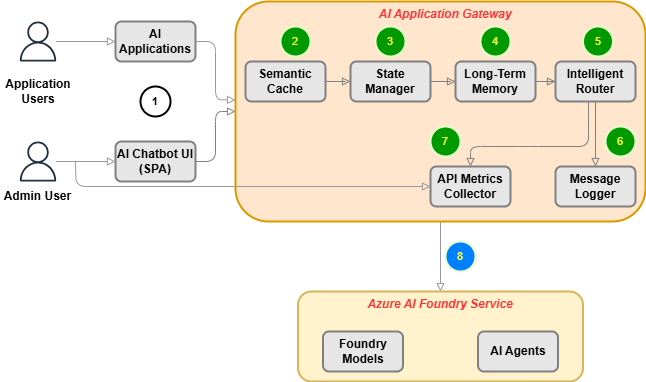
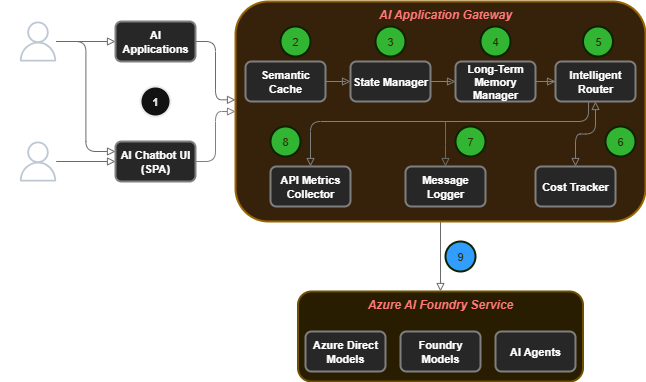
v2.5.0 Release

diff --git a/src/utilities/endpoint-routers.js b/src/utilities/endpoint-routers.js
@@ -283,7 +283,7 @@ class WeightedRandomRouter { // Random Weighted Router.  Uses static weights to 
 
   getEndpointId(request) {
     const epIdx = this._routingTable[Math.floor(Math.random() * this._routingTable.length)];
-    logger.log({ level: "debug", message: "[%s] %s.getEndpointId():\n  Request ID: %s\n  App ID: %s\n  Endpoint ID: %d", splat: [scriptName, this.constructor.name, request.id, this._appName, epIdx] });
+    logger.log({ level: "debug", message: "[%s] %s.getEndpointId():\n  Request ID: %s\n  App ID: %s\n  Endpoint Index: %d", splat: [scriptName, this.constructor.name, request.id, this._appName, epIdx] });
 
     return (epIdx);
   }
@@ -346,7 +346,7 @@ class WeightedDynamicRouter { // Latency Weighted Router
 
   getEndpointId(request) {
     const epIdx = this._routingTable[Math.floor(Math.random() * this._routingTable.length)];
-    logger.log({ level: "debug", message: "[%s] %s.getEndpointId():\n  Request ID: %s\n  App ID: %s\n  Endpoint ID: %d", splat: [scriptName, this.constructor.name, request.id, this._appName, epIdx] });
+    logger.log({ level: "debug", message: "[%s] %s.getEndpointId():\n  Request ID: %s\n  App ID: %s\n  Endpoint Index: %d", splat: [scriptName, this.constructor.name, request.id, this._appName, epIdx] });
 
     return (epIdx);
   }
@@ -414,7 +414,7 @@ class LRURouter { // Least Recently Used a.k.a Round Robin Router
 
     // Get & return the backend index
     const epIdx = this._backends.indexOf(backendUri);
-    logger.log({ level: "debug", message: "[%s] %s.getEndpointId():\n  Request ID: %s\n  App ID: %s\n  Endpoint ID: %d\n  Endpoint URI: %s\n  Endpoint Table:\n%s", splat: [scriptName, this.constructor.name, request.id, this._appName, epIdx, backendUri, JSON.stringify(this.#getLRUTable(), null, 2)] });
+    logger.log({ level: "debug", message: "[%s] %s.getEndpointId():\n  Request ID: %s\n  App ID: %s\n  Endpoint Index: %d\n  Endpoint URI: %s\n  Endpoint Table:\n%s", splat: [scriptName, this.constructor.name, request.id, this._appName, epIdx, backendUri, JSON.stringify(this.#getLRUTable(), null, 2)] });
 
     return (epIdx);
   }
@@ -448,7 +448,7 @@ class LeastConnectionsRouter { // Least Active Connections Router
     else
       this._uriConnections[this._backends[epIdx]]--;
 
-    logger.log({ level: "debug", message: "[%s] %s.updateUriConnections():\n  Request ID: %s\n  Endpoint ID:  %d\n  Endpoint Table: %s", splat: [scriptName, this.constructor.name, requestId, epIdx, JSON.stringify(this._uriConnections, null, 2)] });
+    logger.log({ level: "debug", message: "[%s] %s.updateUriConnections():\n  Request ID: %s\n  Endpoint Index:  %d\n  Endpoint Table: %s", splat: [scriptName, this.constructor.name, requestId, epIdx, JSON.stringify(this._uriConnections, null, 2)] });
   }
 
   getEndpointId(request) {
@@ -457,7 +457,7 @@ class LeastConnectionsRouter { // Least Active Connections Router
     }, { url: null, count: Infinity }).url;
 
     const epIdx = this._backends.indexOf(uri);
-    logger.log({ level: "debug", message: "[%s] %s.getEndpointId():\n  Request ID: %s\n  App ID: %s\n  Endpoint ID: %d\n  Endpoint URI: %s\n  Endpoint Table:\n%s", splat: [scriptName, this.constructor.name, request.id, this._appName, epIdx, uri, JSON.stringify(this._uriConnections, null, 2)] });
+    logger.log({ level: "debug", message: "[%s] %s.getEndpointId():\n  Request ID: %s\n  App ID: %s\n  Endpoint Index: %d\n  Endpoint URI: %s\n  Endpoint Table:\n%s", splat: [scriptName, this.constructor.name, request.id, this._appName, epIdx, uri, JSON.stringify(this._uriConnections, null, 2)] });
 
     return (epIdx);
   }
@@ -509,7 +509,7 @@ class PayloadSizeRouter { // Payload size router; ID08052025.n
 
     // If no backend is found, use the last one as a default
     const epIdx = (backendIdx !== -1) ? backendIdx : this._backends.length - 1;
-    logger.log({ level: "debug", message: "[%s] %s.getEndpointId():\n  Request ID: %s\n  App ID: %s\n  Payload Size (Bytes): %d\n  Endpoint ID: %d\n  Endpoint URI: %s", splat: [scriptName, this.constructor.name, request.id, this._appName, payloadSize, epIdx, this._backends[epIdx].uri] });
+    logger.log({ level: "debug", message: "[%s] %s.getEndpointId():\n  Request ID: %s\n  App ID: %s\n  Payload Size (Bytes): %d\n  Endpoint Index: %d\n  Endpoint URI: %s", splat: [scriptName, this.constructor.name, request.id, this._appName, payloadSize, epIdx, this._backends[epIdx].uri] });
 
     return (epIdx);
   }
@@ -543,11 +543,11 @@ class HeaderValueRouter { // Header value ('x-endpoint-id') router; ID08052025.n
       return (0); // If header value is missing, return the first endpoint index
 
     // Determine the appropriate backend based on header value
-    const backendIdx = this._backends.findIndex((backend) => { backend === endpointId });
+    const backendIdx = this._backends.findIndex((backend) => backend.id === endpointId);
 
     // If a matching backend is not found, use the index of the first endpoint as a default
     const epIdx = (backendIdx !== -1) ? backendIdx : 0;
-    logger.log({ level: "debug", message: "[%s] %s.getEndpointId():\n  Request ID: %s\n  App ID: %s\n  Header (x-endpoint-id): %s\n  Endpoint ID: %d\n  Endpoint URI: %s", splat: [scriptName, this.constructor.name, request.id, this._appName, endpointId, epIdx, this._backends[epIdx].uri] });
+    logger.log({ level: "debug", message: "[%s] %s.getEndpointId():\n  Request ID: %s\n  App ID: %s\n  Header Value (x-endpoint-id): %s\n  Endpoint Index: %d\n  Endpoint Info.:\n%s", splat: [scriptName, this.constructor.name, request.id, this._appName, endpointId, epIdx, JSON.stringify(this._backends[epIdx], null, 2)] });
 
     return (epIdx);
   }
@@ -607,7 +607,7 @@ class ModelAwareRouter { // Model aware router; ID08052025.n
     // Retrieve the endpoint ID based on the task contained in the system prompt
     const result = this.#inferTask(request.body.messages);
 
-    logger.log({ level: "debug", message: "[%s] %s.getEndpointId():\n  Request ID: %s\n  App ID: %s\n  Endpoint ID: %d\n  Message Role Type: %s\n  Endpoint Terms:\n%s\n  Matched Term: %s", splat: [scriptName, this.constructor.name, request.id, this._appName, result.epIdx, this._msgRoleType, JSON.stringify(this._backends[result.epIdx], null, 2), result.term] });
+    logger.log({ level: "debug", message: "[%s] %s.getEndpointId():\n  Request ID: %s\n  App ID: %s\n  Endpoint Index: %d\n  Message Role Type: %s\n  Endpoint Terms:\n%s\n  Matched Term: %s", splat: [scriptName, this.constructor.name, request.id, this._appName, result.epIdx, this._msgRoleType, JSON.stringify(this._backends[result.epIdx], null, 2), result.term] });
 
     return (result.epIdx);
   }
@@ -686,7 +686,7 @@ class TokenAwareRouter { // Token aware router; ID08082025.n
     // Get the endpoint ID based on the prompt tokens, model id and payload threshold (tokens) associated with an endpoint
     const result = this.#inferEndpoint(request.body.messages);
 
-    logger.log({ level: "debug", message: "[%s] %s.getEndpointId():\n  Request ID: %s\n  App ID: %s\n  Endpoint ID: %d\n  Endpoint Spec.:\n%s\n  Token Count: %d", splat: [scriptName, this.constructor.name, request.id, this._appName, result.epIdx, JSON.stringify(this._backends[result.epIdx], null, 2), result.tokenCount] });
+    logger.log({ level: "debug", message: "[%s] %s.getEndpointId():\n  Request ID: %s\n  App ID: %s\n  Endpoint Index: %d\n  Endpoint Spec.:\n%s\n  Token Count: %d", splat: [scriptName, this.constructor.name, request.id, this._appName, result.epIdx, JSON.stringify(this._backends[result.epIdx], null, 2), result.tokenCount] });
 
     return (result.epIdx);
   }
@@ -726,22 +726,22 @@ class TimeAwareRouter { // Time aware router; ID08212025.n
       if (days.includes(currentDay) && currentHour >= startHour && currentHour < endHour) {
         epIdx = index;
 
-        return(true);
+        return (true);
       }
-      else 
-        return(false);
+      else
+        return (false);
     });
 
-    return(epIdx);
+    return (epIdx);
   }
 
   getEndpointId(request) {
     // Get the endpoint ID based the current time and hours configured for each endpoint
     const epIdx = this.#inferEndpoint();
 
-    logger.log({ level: "debug", message: "[%s] %s.getEndpointId():\n  Request ID: %s\n  App ID: %s\n  Endpoint ID: %d\n  Endpoint Spec.:\n%s", splat: [scriptName, this.constructor.name, request.id, this._appName, epIdx, JSON.stringify(this._backends.find((b,index) => index === epIdx), null, 2)] });
+    logger.log({ level: "debug", message: "[%s] %s.getEndpointId():\n  Request ID: %s\n  App ID: %s\n  Endpoint Index: %d\n  Endpoint Spec.:\n%s", splat: [scriptName, this.constructor.name, request.id, this._appName, epIdx, JSON.stringify(this._backends.find((b, index) => index === epIdx), null, 2)] });
 
-    return(epIdx);
+    return (epIdx);
   }
 }
 
@@ -751,6 +751,7 @@ class TimeAwareRouter { // Time aware router; ID08212025.n
  * 
  * IMP:
  * 1) Endpoint id is not mandatory
+ * 2) Ensure model configured for an endpoint has a corresponding budget defined
  */
 class BudgetAwareRouter { // ID08292025.n
 
@@ -761,39 +762,40 @@ class BudgetAwareRouter { // ID08292025.n
     endpointObj.forEach((element, index) => {
       const modelObj = costCatalog.find(model => model.modelName === element.budget.modelName);
 
-      this._backends.push(
-        {
-          id: index,
-          name: element.id ?? "index-" + index,
-          uri: element.uri,
-          model: element.budget.modelName,
-          defBackend: element.budget.defaultEndpoint ?? false,
-          inputCostPer1K: modelObj.tokenPriceInfo.inputTokensCostPer1k,
-          cachedInputCostPer1K: modelObj.tokenPriceInfo.cachedInputTokensCostPer1k,
-          outputCostPer1K: modelObj.tokenPriceInfo.outputTokensCostPer1k,
-          budgets: {
-            hourly: {
-              limit: element.budget.costBudgets.hourly,
-              remaining: element.budget.costBudgets.hourly,
-              lastReset: Date.now()
-            },
-            daily: {
-              limit: element.budget.costBudgets.daily,
-              remaining: element.budget.costBudgets.daily,
-              lastReset: Date.now()
-            },
-            weekly: {
-              limit: element.budget.costBudgets.weekly,
-              remaining: element.budget.costBudgets.weekly,
-              lastReset: Date.now()
-            },
-            monthly: {
-              limit: element.budget.costBudgets.monthly,
-              remaining: element.budget.costBudgets.monthly,
-              lastReset: Date.now()
-            },
-          }
-        });
+      if (modelObj)
+        this._backends.push(
+          {
+            id: index,
+            name: element.id ?? "index-" + index,
+            uri: element.uri,
+            model: element.budget.modelName,
+            defBackend: element.budget.defaultEndpoint ?? false,
+            inputCostPer1K: modelObj.tokenPriceInfo.inputTokensCostPer1k,
+            cachedInputCostPer1K: modelObj.tokenPriceInfo.cachedInputTokensCostPer1k,
+            outputCostPer1K: modelObj.tokenPriceInfo.outputTokensCostPer1k,
+            budgets: {
+              hourly: {
+                limit: element.budget.costBudgets.hourly,
+                remaining: element.budget.costBudgets.hourly,
+                lastReset: Date.now()
+              },
+              daily: {
+                limit: element.budget.costBudgets.daily,
+                remaining: element.budget.costBudgets.daily,
+                lastReset: Date.now()
+              },
+              weekly: {
+                limit: element.budget.costBudgets.weekly,
+                remaining: element.budget.costBudgets.weekly,
+                lastReset: Date.now()
+              },
+              monthly: {
+                limit: element.budget.costBudgets.monthly,
+                remaining: element.budget.costBudgets.monthly,
+                lastReset: Date.now()
+              },
+            }
+          });
     });
 
     this._appName = appId;
@@ -1011,7 +1013,7 @@ class BudgetAwareRouter { // ID08292025.n
 }
 
 /**
- * Pure in-memory metrics with aligned sliding windows
+ * Pure in-memory metrics store with aligned sliding windows
  */
 class MetricsStore {
 

diff --git a/README.md b/README.md
@@ -1,22 +1,27 @@
 # Azure *AI Application Gateway*
 
-> ** Humble Request **
+> Humble Request
 
-> If you find this project helpful, we did greatly appreciate it if you could give it a star :star:! Your support helps keep this project alive and motivates further improvements.
+> If you find this project helpful, we did greatly appreciate it if you could give it a star :star:! Your support helps keep this project alive and motivates further improvements.  Thank You!
 
-> Thanks You!
+### Release Notes
+Refer to [Changelog document](./CHANGELOG.md) for details on new features, enhancements and bugfixes introduced in **v2.5.0** release.
 
-If you find this project
+### Release Info
+Release | Date | Production Ready | Notes
+------- | ---- | -------------------- | -----
+v2.5.0 | 09/14/2025 | Yes | This latest release includes new features, enhancements and several bug fixes. This release may also include preview features which have not been fully tested. Release may also contain minor bugs.
+v2.3.9 | 08/09/2025 | Yes | This is the last stable release & has gone thru end to end regression tests.  However, this release may lack some critical features introduced in later releases.
 
-If you're seeking the essential components for rapid implementation and deployment of **AI Information Assistant (a.k.a AI Chatbot)** solutions on Azure, the *AI Application Gateway* is your go-to resource to expedite the development process and transition smoothly from pilot phase to full-scale production.
+If you're seeking the essential components for rapid implementation and deployment of **Conversational AI Applications (a.k.a AI Chatbots)** or advanced AI Solutions on Azure, the *AI Application Gateway* is your go-to resource to expedite the development process and transition smoothly from pilot phase to full-scale production.
 
-This *solution accelerator* is designed to deliver 80-90% of the core functionality essential for constructing and deploying AI Solutions and Chatbots. Most notably, it accelerates the smooth roll out of numerous AI Chatbot Solutions on a shared, minimal set of infrastructure components/services.
+This *solution accelerator* is designed to deliver 80-90% of the core functionality essential for constructing and deploying AI Solutions, essentially Information Chatbots. Most notably, it accelerates the smooth roll out of numerous AI Solutions on a shared, minimal set of infrastructure components/services.
 
-Recipe | Components | Functional Architecture (**)
+Recipe | Components | Functional Architecture
 ------ | ---------- | ----------------------------
-***AI Information Assistant*** | 1. AI Applications <br> 2. **Semantic Cache** <br> 3. **State Manager** <br> 4. **Long-Term Memory** <br> 5. **Intelligent Router** <br> 6. **Message Logger (Chat History)** <br> 7. **API Metrics Collector** <br> 8. Azure AI Foundry Service | ![alt tag](./images/ai-chatbot-usecase-gh.PNG)
+***AI Information Assistant*** | 1. AI Applications <br> 2. **Semantic Cache** <br> 3. **State Manager** <br> 4. **Long-Term Memory Manager** <br> 5. **Intelligent Router** <br> 6. **Cost Tracker (Budgeting)** <br> 7. **Message Logger (Chat History)** <br> 8. **API Metrics Collector** <br> 9. Azure AI Foundry Service | ![alt tag](./images/ai-chatbot-usecase-gh.PNG)
 
-** Components marked by green circles are out of box features.
+> **Note: Components marked by green circles are out of box features.**
 
 ### Supported Features At A Glance
 
@@ -25,15 +30,16 @@ Feature/Capability | Azure AI Service | Description
 **Shared Infrastructure Model** | All | The AI Application Gateway simplifies and streamlines the deployment of multiple AI Solutions by utilizing a shared infrastructure backbone. This approach allows for deploying the infrastructure once and subsequently scaling it to build and deploy numerous AI Chatbots/Applications.
 **Enhanced AI Application Deployments** | All | The gateway is designed to be AI Application *Aware*, allowing Azure AI Service deployments to be configured individually for each AI Application. This approach simplifies the sharing of AI Service deployments across different AI Applications.
 **Model Agnostic Endpoints** | - Azure AI Foundry Models<br>- Azure AI Agent Service | The gateway exposes each AI Application through a unified endpoint, hiding the underlying AI Service model deployment endpoints from client applications. As a result, model/agent deployment endpoints can be quickly updated without requiring any changes to client applications.
-**Intelligent Traffic Routing** | - Azure AI Foundry Models<br>- Azure AI Agent Service | The gateway router provides the following features.<br>**<u>Circuit Breaker</u>** Each AI Application can be configured with multiple backend endpoints, and the gateway acts as a circuit-breaker by automatically switching to the next prioritized endpoint when one is throttled (HTTP 429), while temporarily excluding throttled endpoints from traffic until they recover.<br>**<u>Rate Limiting</u>** Users can define RPM limits per backend endpoint. The AI Gateway enforces rate limiting by returning HTTP 429 responses to prevent overloading of an endpoint and ensure fair utilization of model capacity.<br>**<u>Traffic Splitting</u>** Each AI Application can be configured with one of many router implementations.  See the table below.<table><tr><th>Router Type</th><th>Description</th></tr><tr><td>Priority</td><td>(**Default**) Routes API calls based on top down order of endpoints listed in the Gateway configuration file.</td></tr><tr><td>Least Recently Used</td><td>Routes API calls to endpoint that has been least recently used.</td></tr><tr><td>Least Active Connections</td><td>Routes API calls to the endpoint with the fewest active connections.</td></tr><tr><td>Random Weighted</td><td>Routes API calls to endpoints based on fixed weight assignments.</td></tr><tr><td>Latency Weighted</td><td>Dynamically adjusts routing weights based on endpoint performance and latency.</td></tr><tr><td>Payload Switch</td><td>Routes API calls to endpoints based on the size of the HTTP request payload and configured thresholds.</td></tr><tr><td>Header Switch</td><td>Routes API calls to the endpoint whose unique ID matches the value provided in the `x-endpoint-id` HTTP header.</td></tr><tr><td>Model Aware</td><td>Routes API calls to a specific endpoint when it's `task` attribute value is contained within the system prompt.</td></tr></table>**<u>Health Check Policies</u>** When enabled, the AI Gateway monitors backend endpoint latency and automatically disables an endpoint when the pre-configured response time threshold (in minutes) is exceeded.
-**Streaming API Responses** | Azure AI Foundry Models (Chat Completions API only) | The AI Application Gateway fully supports the response *streaming* feature provided by Azure OpenAI Chat Completions API.  This function is seamlessly integrated with semantic caching, state management and traffic routing features.
+**Intelligent Traffic Routing** | - Azure AI Foundry Models<br>- Azure AI Agent Service | The gateway router provides the following features.<br>**<u>Circuit Breaker</u>** Each AI Application can be configured with multiple backend endpoints, and the gateway acts as a circuit-breaker by automatically switching to the next prioritized endpoint when one is throttled (HTTP 429), while temporarily excluding throttled endpoints from traffic until they recover.<br>**<u>Rate Limiting</u>** Users can define RPM limits per backend endpoint. The AI Gateway enforces rate limiting by returning HTTP 429 responses to prevent overloading of an endpoint and ensure fair utilization of model capacity.<br>**<u>Traffic Splitting</u>** Each AI Application can be configured with any one of the built-in endpoint router implementations listed in the table below.<table><tr><th>Router Type</th><th>Description</th></tr><tr><td>Priority</td><td>(**Default**) Routes API calls based on top down order of endpoints listed in the Gateway configuration file.</td></tr><tr><td>Least Recently Used</td><td>Routes API calls to endpoint that has been least recently used.</td></tr><tr><td>Least Active Connections</td><td>Routes API calls to the endpoint with the fewest active connections.</td></tr><tr><td>Random Weighted</td><td>Routes API calls to endpoints based on fixed weight assignments.</td></tr><tr><td>Latency Weighted</td><td>Dynamically adjusts routing weights based on real-time endpoint performance, ensuring each API call is directed to the endpoint with the lowest latency for optimal responsiveness. This strategy enhances efficiency by continuously monitoring and prioritizing faster endpoints.</td></tr><tr><td>Payload Switch</td><td>Routes API calls to endpoints based on the size of the HTTP request payload and configured thresholds.</td></tr><tr><td>Header Switch</td><td>Routes API calls to the endpoint whose unique ID matches the value provided in the `x-endpoint-id` HTTP request header.</td></tr><tr><td>Model Aware</td><td>Intelligently directs API calls to endpoints whose configured task attributes match specific phrases or terms found in the request message.</td></tr><tr><td>Token Aware</td><td>Routes API requests to the most suitable endpoint by comparing the token consumption of each API request against the model's maximum allowed context size. An endpoint is selected if the request message's token size is below the model's context size.</td></tr><tr><td>Time Aware</td><td>Routes API requests to the most appropriate endpoint based on the current day of the week and time of day.</td></tr><tr><td>Budget Aware</td><td>Estimates token usage with simple heuristics, calculates cost, and compares it against model-specific budget thresholds to select the most economical endpoint.</td></tr><tr><td>Adaptive Budget Aware</td><td>Identifies the most cost-effective endpoint by applying the configured (built-in) routing strategy within defined budget thresholds.</td></tr></table>**<u>Health Check Policies</u>** When enabled, the AI Gateway monitors backend endpoint latency and automatically disables an endpoint when the pre-configured response time threshold (in minutes) is exceeded.
+**Model Budgeting (Cost Tracking)** | Azure AI Foundry Models | When this feature is enabled for AI Applications, the AI Application Gateway calculates & stores API call costs using token counts reported by Azure AI Foundry Models, helping teams monitor usage and manage expenses effectively. This feature also helps teams stay within budget, optimize resource allocation, and make informed decisions about endpoint selection and usage. 
 **Semantic Caching** | Azure AI Foundry Models | This feature, integrated into the AI Application Gateway, caches OpenAI Service prompts and responses based on semantic similarity. It can improve runtime performance of LLM/AI applications by up to 40%, leveraging *PostgreSQL's* vectorization and semantic search capabilities.
 **Conversational State Management** | Azure AI Foundry Models (Chat Completion API only) | AI Chatbots must maintain context during end user sessions so they can reference previous user inputs, ensuring coherent and contextually relevant conversations.  This feature manages conversational state, scaling to support 10 to hundreds of concurrent user sessions for multiple AI applications. It can operate independently or with *Semantic Caching* to enhance performance.
 **Long-term Memory (Personalization)** | Azure AI Foundry Models (Chat Completion API only) | The AI Gateway supports long-term user memory, a feature that enables personalized interactions by continuously learning from user inputs over time. When enabled for an AI Application, the gateway extracts and stores relevant facts from user prompts such as preferences, context and behavioral patterns. It then uses this accumulated knowledge to tailor responses, maintain conversational continuity, and generate context-aware follow-up questions that reflect the user’s history and intent.
 **Message Persistence (Chat History)** | Azure AI Foundry Models | This feature allows persisting Azure OpenAI Service *Prompts* and *Completions* in a PostgreSQL database for introspection and quick troubleshooting of API requests.
+**API Metrics Collection** | All | The Gateway continously collects backend API metrics and exposes them thru the metrics (/ metrics) endpoint.  Using this feature, users can analyze the throughput, cost, caching and latency metrics for each AI Application & optimize traffic routing.
+**Streaming API Responses** | Azure AI Foundry Models (Chat Completions API only) | The AI Application Gateway fully supports the response *streaming* feature provided by Azure OpenAI Chat Completions API.  This function is seamlessly integrated with semantic caching, state management and traffic routing features.
 **Secure by Design** | All | The API's exposed by the AI Application Gateway can be easily secured using Microsoft Entra ID (Default). This feature ensures only authenticated users or client applications are able to access the API endpoints. 
 **Dynamic Server Configuration** | All | In standalone mode (**single instance**), the AI Gateway server exposes a separate reconfiguration (/reconfig) endpoint to enable rapid deployment and testing of backend endpoints.
-**API Metrics Collection** | All | The Gateway continously collects backend API metrics and exposes them thru the metrics (/ metrics) endpoint.  Using this feature, users can analyze the throughput and latency metrics for each AI Application & optimize traffic routing.
 **Observability and Traceability** | All | The AI Application Gateway uses the Azure Application Insights SDK to collect and send detailed telemetry on Azure OpenAI and dependent services to Azure Monitor.
 **Client SDK's and AI Application (LLM) Frameworks** | Azure AI Foundry Models | The AI Application Gateway server supports [Azure OpenAI](https://learn.microsoft.com/en-us/azure/ai-services/openai/how-to/switching-endpoints) Client SDK.  The gateway has also been tested to work with [Prompt Flow](https://github.com/microsoft/promptflow) and [Langchain](https://python.langchain.com/docs/integrations/llms/azure_openai/) LLM frameworks.
 **Robust Runtime** | All | The AI Application Gateway, powered by the Node.js runtime and Chrome V8 engine, uses a single-threaded event loop for asynchronous request handling. It is highly performant and can scale to manage thousands of concurrent requests.
@@ -41,22 +47,21 @@ Feature/Capability | Azure AI Service | Description
 ### Usage scenarios
 
 The AI Application Gateway can be used in the following scenarios.
-1. **Rapid deployment of AI Chatbots (or AI Information Assistants)**
+1. **Rapid deployment of intelligent AI Chatbots (or AI Information Assistants)**
    
-   The AI Application Gateway solution provides value add features such as *Semantic Caching*, *State Management*, *Long-term Memory*, *Traffic Routing* and *API Metrics Collection* right out of the box, which are crucial for implementing conversational AI applications such as AI Chatbots.
+   The gateway provides built-in value add capabilities such as *Semantic Caching*, *State Management*, *Long-term Memory*, *Cost Tracking*, *Intelligent Traffic Routing* and *API Metrics Collection*, which are crucial for implementing scalable conversational AI applications powered by large language models and AI Agents. These features streamline and accelerate development, enhance runtime performance, and support advanced AI use cases with minimal to no overhead.
 
 2. **Capturing Azure AI Service API usage metrics and estimating capacity for AI applications/workloads**
 
-   For each AI Application, the gateway collects Azure AI Service endpoint usage metrics.  The metrics are collected for each AI application based on pre-configured time intervals. In the case of Azure OpenAI Service, the collected metrics include *Tokens per minute* (TPM) and *Requests per minute* (RPM). These metrics can then be used to estimate *Provisioned Throughput Units* for each OpenAI workload.
+   For each AI Application, the gateway collects Azure AI Service API usage metrics for pre-configured time intervals. In the case of Azure AI Foundry models, the collected metrics such as *Tokens per minute* (TPM) and *Requests per minute* (RPM) can be used to estimate *Provisioned Throughput Units* for each AI workload.
 
 3. **Intelligently route AI Application requests to Azure AI Service deployments/backends**
 
-   For each AI Application, the AI Application Gateway functions as an intelligent router and distributes AI Service API traffic among multiple backend endpoints.  The gateway keeps track of unavailable/busy backend endpoints and automatically redirects traffic to available endpoints thereby distributing the API traffic load evenly and not overloading a given endpoint with too many requests.  
+   For each AI Application, the gateway functions as an intelligent router and distributes AI Service API traffic among multiple backend endpoints.  The gateway also keeps track of unavailable/busy backend endpoints and automatically redirects traffic to available endpoints thereby distributing the API traffic load evenly and not overloading a given endpoint with too many requests.  
 
    The gateway currently supports proxying requests to the following Azure AI Services.
-     - Azure AI Foundry Models (Support for OpenAI models and models that support the *Azure AI Model Inference API*)
+     - Azure AI Foundry Models, OpenAI models and models that support the *Azure AI Model Inference API*
      - Azure AI Foundry Agent Service (Experimental/In-Preview)
-     - OpenAI Models
      - Azure AI Search (Full API support)
      - Azure AI Language (Limited API support - Entity Linking, Language detection, Key phrase extraction, NER, PII, Sentiment analysis and opinion mining only)
      - Azure AI Translator (Limited API support - Text Translation only)
@@ -66,10 +71,11 @@ The AI Application Gateway can be used in the following scenarios.
 
 Feature/Capability | Configurable (Yes/No) | Azure AI Foundry Models | Azure AI Foundry Agent Service | Azure AI Search | Azure AI Language | Azure AI Translator | Azure AI Content Safety |
 ------------------ | --------------------- | -------------------- | --------------- | ----------------- | ----------------- | ------------------- | ----------------------- |
-**Semantic Cache** | Yes | Yes <br> - Completions API <br> - Chat Completions API | No | No | No | No | No
-**State Management** | Yes | Yes <br> - Chat Completions API | Yes | No | No | No | No
-**Long-term Memory (Personalization)** | Yes | Yes | No | No | No | No | No
+**Semantic Cache** | Yes | Yes <br>- Completions API <br>- Chat Completions API | No | No | No | No | No
+**State Management** | Yes | Yes <br>- Chat Completions API | Yes | No | No | No | No
+**Long-term Memory (Personalization)** | Yes | Yes <br>- Chat Completions API | No | No | No | No | No
 **Traffic Routing/Splitting** | Yes | Yes | Yes | Yes | Yes | Yes | Yes
+**Cost Tracking** | Yes | Yes <br>- Chat Completions API | Yes | No | No | No | No
 **Message Persistence** | Yes | Yes | Yes | No | No | No | No
 **Metrics Collection** | No | Yes | Yes | Yes | Yes | Yes | Yes
 
@@ -296,7 +302,11 @@ Before we can get started, you will need a Linux Virtual Machine to run the AI A
      azure_content_safety | This value denotes Azure AI Content Safety service
      azure_search | This value denotes Azure AI Search service
 
-   - Optionally specify the backend endpoint router type *endpointRouterType*. The router types supported by the AI Application Gateway are listed in the table below.
+   - Optionally specify the backend endpoint router type *endpointRouterType*.
+
+     Sample AI Application configuration files using different endpoint router's can be found in directory `./ai-app-gateway-configs`. 
+   
+     The routers (types) supported by the AI Application Gateway are listed in the table below.
 
      Router Type | Description
      ----------- | -----------
@@ -304,12 +314,16 @@ Before we can get started, you will need a Linux Virtual Machine to run the AI A
      LeastActiveConnections | Directs API calls to the endpoint with the fewest active connections at the time of the request.
      LeastRecentlyUsed | Sends API calls to the endpoint that has not been used for the longest duration, promoting balanced usage.
      RandomWeighted | Routes incoming API calls to backend endpoints based on predefined (fixed) weight assignments.
-     LatencyWeighted | Dynamically routes API calls to the endpoint with the lowest observed latency, adjusting weights in real time based on performance.
-     PayloadSwitch | Routes incoming API requests to the appropriate endpoint by comparing the request payload size against each endpoint’s configured threshold. An endpoint is selected if the payload size is below its threshold.
-     HeaderSwitch | Routes incoming API requests by matching the value of the `x-endpoint-id` HTTP header to a corresponding backend endpoint ID.
-     ModelAware | Routes API calls to a specific endpoint when the task attribute (`task`) value is found within the system prompt.
+     LatencyWeighted | Dynamically adjusts routing weights based on real-time endpoint performance, ensuring each API call is directed to the endpoint with the lowest latency for optimal responsiveness. This strategy enhances efficiency by continuously monitoring and prioritizing faster endpoints.
+     PayloadSwitch | Routes incoming API requests to the appropriate endpoint by comparing the request payload size against each endpoint’s configured maximum threshold. An endpoint is selected if the payload size is below its configured threshold.
+     HeaderSwitch | Routes API requests to the endpoint whose unique ID matches the value provided in the `x-endpoint-id` HTTP request header.
+     ModelAware | Intelligently directs API calls to endpoints whose configured task attributes match specific phrases or terms found in the request message (role=system). This ensures contextually relevant routing based on semantic alignment between the request and endpoint capabilities.
+     TokenAware | Routes API calls to the most suitable endpoint by evaluating token consumption of each request. This router uses configured token threshold limits per endpoint to ensure requests are routed efficiently, optimizing resource usage and preventing overages while maintaining performance. 
+     TimeAware | Intelligently directs API calls to the most appropriate endpoint based on the current day of the week and time of day. By leveraging temporal routing logic, it ensures optimal resource utilization, performance alignment, and cost efficiency by matching traffic patterns with endpoint availability and operational preferences.
+     BudgetAware | This router applies lightweight heuristics to estimate token usage and compute the cost of each API request. It then compares the estimates against model-specific cost budgets to intelligently route requests to the most cost-effective (least expensive) endpoint. This ensures cost-effective execution aligned with configured budget constraints.
+     AdaptiveBudgetAware | This router identifies the most cost-effective endpoint by utilizing one of the following configurable strategies that fall within pre-configured budget thresholds. This ensures optimal performance while minimizing operational costs, making it a highly cost-effective solution for scalable deployments.<br>**Router Strategies:**<br>- **Priority:** Uses endpoints listing order, then first under budget<br>- **RoundRobin:** Cycles thru endpoints that are under budget<br>- **LeastSpent:** Selects an endpoint with the highest remaining budget %tage<br>- **WeightedRandom:** Selects an endpoint by weight (skips exhausted)<br>- **Adaptive:** Prefers endpoint with `qualityTier` A, B and then C but switches to a lower quality tier if the remaining allocated budget of the higher tier is < minimum threshold (Default ~ 10% of budget)
 
-   - Specify Azure AI Service endpoints/URI's and corresponding API key values within **endpoints** attribute.  Refer to the table below and set appropriate values for each attribute.
+   - Specify Azure AI Service endpoints/URI's and corresponding API key values within **endpoints** attribute.  Refer to the table below and set appropriate values for each endpoint attribute.
 
      Attribute Name | Type | Required | Description
      -------------- | ---- | -------- | -----------
